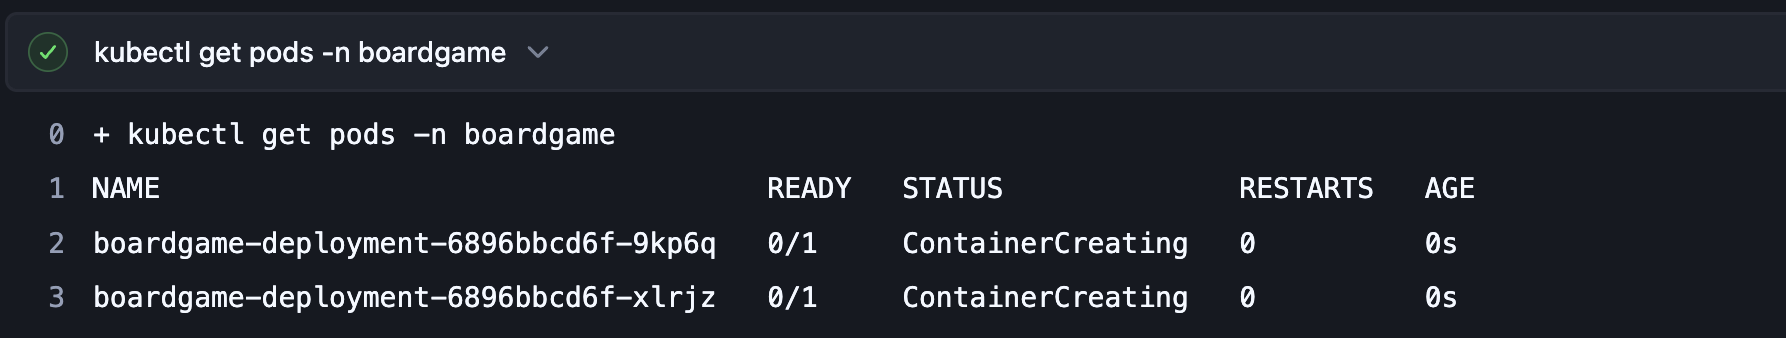
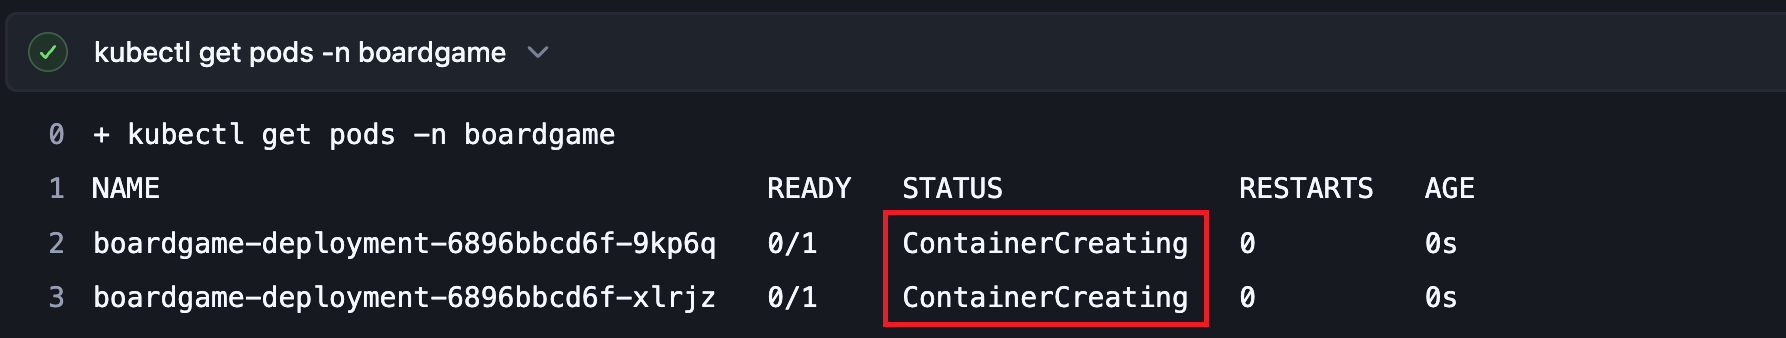
Add project screenshots

Changed region(s): [[0.4927, 0.9467, 0.6775, 0.9763], [0.4927, 0.6213, 0.6775, 0.6509]]

diff --git a/README.md b/README.md
@@ -136,13 +136,9 @@ volumes:
   sonarqube_logs:
 ```
 
-**Post-installation steps:**
+**SonarQube post-installation steps:**
 
-1. Access at `http://<sonarqube-ip>:9000`
-2. Default credentials: `admin / admin` — change immediately
-3. Generate an authentication token: **My Account → Security → Generate Token**
-4. Store the token in Jenkins credentials as a **Secret text** with ID `sonar-token`
-5. Configure the SonarQube server in Jenkins: **Manage Jenkins → Configure System → SonarQube servers**
+1. An authentication token was generated for Jenkins user : **My Account → Security → Generate Token**
 
 ---
 
@@ -165,16 +161,14 @@ volumes:
   nexus-data:
 ```
 
-**Post-installation steps:**
+**Nexus Post-installation steps:**
 
-Create two hosted Maven repositories in Nexus:
+* Two hosted maven repositories were created in Nexus to store the artefacts
 
-| Repository | Type | Purpose |
-|---|---|---|
-| `maven-releases` | hosted | Stable versioned releases — immutable once published |
-| `maven-snapshots` | hosted | Development builds — overwritable |
 
-Create a dedicated Jenkins user in Nexus with deploy permissions and store its credentials in Jenkins as a **Maven settings.xml** managed file.
+* A dedicated Jenkins user was created in Nexus with deploy permissions.
+
+![Jenskins Nexus User Created](./screenshots/jenkins-nexus-user.png)
 
 ---
 
@@ -353,7 +347,26 @@ Go to **Manage Jenkins → Global Tool Configuration**:
 | NodeJS | `nodejs` | 24.x LTS | `tools { nodejs 'nodejs' }` |
 | SonarQube Scanner | `sonar-scanner` | Latest | `SCANNER_HOME = tool 'sonar-scanner'` |
 
+![Tools config](./screenshots/tools-configuration.png)
+
 > The `tools` block adds the tool's `bin/` directory to `PATH` — enabling `mvn`, `java`, and `node` commands directly. The `tool()` function returns the full installation path — used for SonarQube Scanner which is invoked via `$SCANNER_HOME/bin/sonar-scanner`.
+
+---
+
+### Credentials
+
+Credentials are required for Jenkins to authenticate with the different servers and services referenced in the pipeline.
+They are configured at **Manage Jenkins → Credentials → Global → Add Credentials**.:
+
+| ID | Kind | Used in pipeline |
+|---|---|---|
+| `docker-cred` | Username with password | `withCredentials` in Build Docker Image stage |
+| `git-cred` | Username with password | GitHun authentication |
+| `k8-cred` | Secret text | `withKubeConfig` in Deploy to Kubernetes stage |
+| `sonar-token` | Secret text | SonarQube server configuration |
+| `mail-cred` | Username with password | Gmail app credentials |
+
+![Credentials](./screenshots/credentials-config.png)
 
 ---
 
@@ -361,7 +374,7 @@ Go to **Manage Jenkins → Global Tool Configuration**:
 
 The SonarQube server must be registered in Jenkins before `withSonarQubeEnv()` can be used in the pipeline. SonarQube must already be running and its token generated before this step.
 
-Go to **Manage Jenkins → Configure System**:
+This is configured at **Manage Jenkins → Configure System**:
 
 1. Scroll to the **SonarQube servers** section
 2. Check **Environment variables** — enables `withSonarQubeEnv()` in the pipeline
@@ -375,26 +388,16 @@ Go to **Manage Jenkins → Configure System**:
 
 4. Click **Save**
 
-> The **Name** field is case sensitive and must match exactly what is passed to `withSonarQubeEnv()` in the Jenkinsfile. A mismatch causes the pipeline to fail with `SonarQube server not found`.
+> The **Name** field is case sensitive and must match exactly what is passed to `withSonarQubeEnv()` in the Jenkinsfile.
 
----
 
-### Credentials
-
-Go to **Manage Jenkins → Credentials → Global → Add Credentials**:
-
-| ID | Kind | Used in pipeline |
-|---|---|---|
-| `docker-cred` | Username with password | `withCredentials` in Build Docker Image stage |
-| `k8-cred` | Secret text | `withKubeConfig` in Deploy to Kubernetes stage |
-| `sonar-token` | Secret text | SonarQube server configuration |
-| `global-settings` | Maven settings.xml | `withMaven` in Publish Artefact stage |
 
 ---
 
 ### Managed Files
 
-The **Config File Provider Plugin** manages `settings.xml` inside Jenkins so Nexus credentials are never committed to version control:
+The **Config File Provider Plugin** manages `settings.xml` inside Jenkins. Maven uses `settings.xml` to store authentication credentials that `pom.xml` cannot hold securely. By managing `settings.xml` through Jenkins, Nexus credentials are kept out of the repository entirely and injected securely at build time.
+
 
 1. Go to **Manage Jenkins → Managed Files → Add a New Config**
 2. Select **Maven settings.xml**
@@ -406,19 +409,19 @@ The **Config File Provider Plugin** manages `settings.xml` inside Jenkins so Nex
     <servers>
         <server>
             <id>maven-releases</id>
-            <username>jenkins</username>
-            <password>your-nexus-password</password>
+            <username>jenkins-nexus-user</username>
+            <password>enter-password</password>
         </server>
         <server>
             <id>maven-snapshots</id>
-            <username>jenkins</username>
-            <password>your-nexus-password</password>
+            <username>jenkins-nexus-user</username>
+            <password>enter-password</password>
         </server>
     </servers>
 </settings>
 ```
 
-The `id` values must match the `<id>` in `pom.xml` `distributionManagement` — this is how Maven knows which credentials to use for which Nexus repository.
+The `id` values must match the `<id>` in `pom.xml` `distributionManagement`. The ID is how Maven knows which credentials to use for which Nexus repository.
 
 ---
 
@@ -683,28 +686,27 @@ pipeline {
 
 ## Code Quality and Coverage
 
-SonarQube analyses the project on two dimensions simultaneously — **code quality** across all source types, and **test coverage** restricted to Java only.
+SonarQube analyses the project on two dimensions simultaneously: **code quality** across all source types, and **test coverage** restricted to Java only.
 
 ```
 src/main/java        → quality analysis + coverage measurement
-src/main/resources   → quality analysis only (HTML accessibility, JS issues)
+src/main/resources   → quality analysis only
 src/test/java        → test source — not analysed for quality
 ```
 
 This separation is critical. Without it, HTML, CSS and SQL files with no coverage data drag the overall coverage metric down from the true Java figure, creating a false picture of test quality.
 
-**Coverage results:**
+**Code Quality result from SonarQube**
 
-| Package | Line Coverage | Branch Coverage |
-|---|---|---|
-| `com.javaproject.controllers` | 90% | 75% |
-| `com.javaproject.security` | 90% | 0%* |
-| `com.javaproject.database` | 96% | 80% |
-| **Overall** | **91%** | **70%** |
+![Quality result from SonarQube](./screenshots/code-quality-report.png)
 
-*Security branch coverage is 0% because triggering a real 403 access denied event in tests requires additional MockMvc security configuration beyond the current test suite.
+**Test Coverage result from JaCoCo**
 
-The JaCoCo HTML report is published directly to the Jenkins build page via `publishHTML` — accessible at **Build → JaCoCo Coverage Report** without needing server access.
+![JaCoCo coverage result](./screenshots/jacoco-coverage-report.png)
+
+> Security branch coverage is 0% because triggering a real 403 access denied event in tests requires additional MockMvc security configuration beyond the current test suite.
+
+The JaCoCo HTML report is published directly to the Jenkins build page via `publishHTML` and accessible at **Build → JaCoCo Coverage Report**.
 
 ---
 
@@ -712,9 +714,13 @@ The JaCoCo HTML report is published directly to the Jenkins build page via `publ
 
 Trivy runs at two points in the pipeline:
 
-**Filesystem scan** — runs before packaging, scanning source code and `pom.xml` for known CVEs in declared dependencies. Output saved to `reports/trivy-fs-report.html`.
+* **Filesystem scan** : This runs before packaging and it scans the source code and `pom.xml` for known CVEs in declared dependencies. Output saved to `reports/trivy-fs-report.html`.
 
-**Image scan** — runs after the Docker image is built, scanning OS packages and library layers for vulnerabilities. This catches issues introduced by the base image that the filesystem scan cannot see. Output saved to `reports/trivy-image-report.html`.
+![Trivy File System Scan Report](./screenshots/trivy-fs-scan-report.png)
+
+* **Image scan** runs after the Docker image is built, scanning OS packages and library layers for vulnerabilities. This catches issues introduced by the base image that the filesystem scan cannot see. Output saved to `reports/trivy-image-report.html`.
+
+![Trivy Image Scan Report](./screenshots/trivy-image-scan-report.png)
 
 Both reports are archived as Jenkins build artefacts and available for download from the build page. The `reports/` directory is explicitly separated from source code to prevent SonarQube from treating Trivy HTML output as analysable source files.
 
@@ -725,13 +731,14 @@ Both reports are archived as Jenkins build artefacts and available for download 
 Maven's `deploy` lifecycle phase pushes the built JAR to Nexus using coordinates from `pom.xml`:
 
 ```
-com.javaproject:database_service_project:0.0.5-SNAPSHOT
+com.javaproject:BoardGame:0.0.5-SNAPSHOT
 ```
 
 The `-SNAPSHOT` suffix routes to `maven-snapshots`. Removing it and changing to a fixed version number (e.g. `0.0.5`) routes to `maven-releases` — which is immutable. Once a release version is published it cannot be overwritten, providing an auditable history of every production build.
 
-The `withMaven()` step with `traceability: true` attaches Jenkins build metadata to the Nexus artefact — build number, Git commit hash, and branch name — so any artefact in Nexus can be traced back to the exact pipeline run and source commit that produced it.
+The `withMaven()` step with `traceability: true` attaches Jenkins build metadata to the Nexus artefact; build number, Git commit hash, and branch name. This ensures that any artefact in Nexus can be traced back to the exact pipeline run and source commit that produced it.
 
+![Artefact in nexus](./screenshots/artefacts-in-nexus.png)
 ---
 
 ## Container Strategy
@@ -943,13 +950,14 @@ sudo systemctl start node-exporter.service
 
 ### Grafana Dashboards
 
-Two pre-built dashboards are imported from Grafana's public registry:
+_**Jenskins Host Resource Usage**_
 
-| Dashboard | What it shows |
-|---|---|
-| Node Exporter Full | CPU, memory, disk, network and filesystem metrics for the Jenkins server |
-| Prometheus Blackbox Exporter | Uptime, response time breakdown, HTTP status and SLA metrics for the BoardGame application |
+![Jenskins Host Resource Usage](./screenshots/jenkins-host-dashboard.png)
 
+---
+_**Live Website Monitor**_
+
+![Live Website Dashboard](./screenshots/website-blackbox-dashboard.png)
 ---
 
 ## Email Notifications
